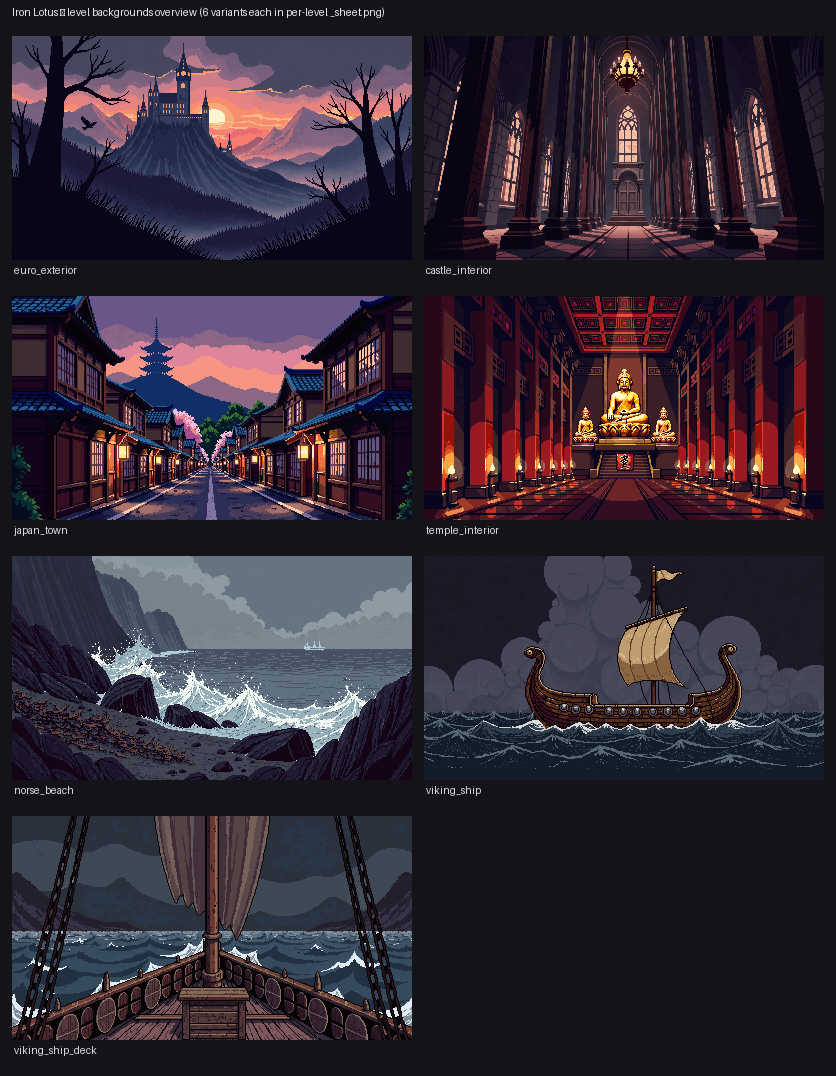
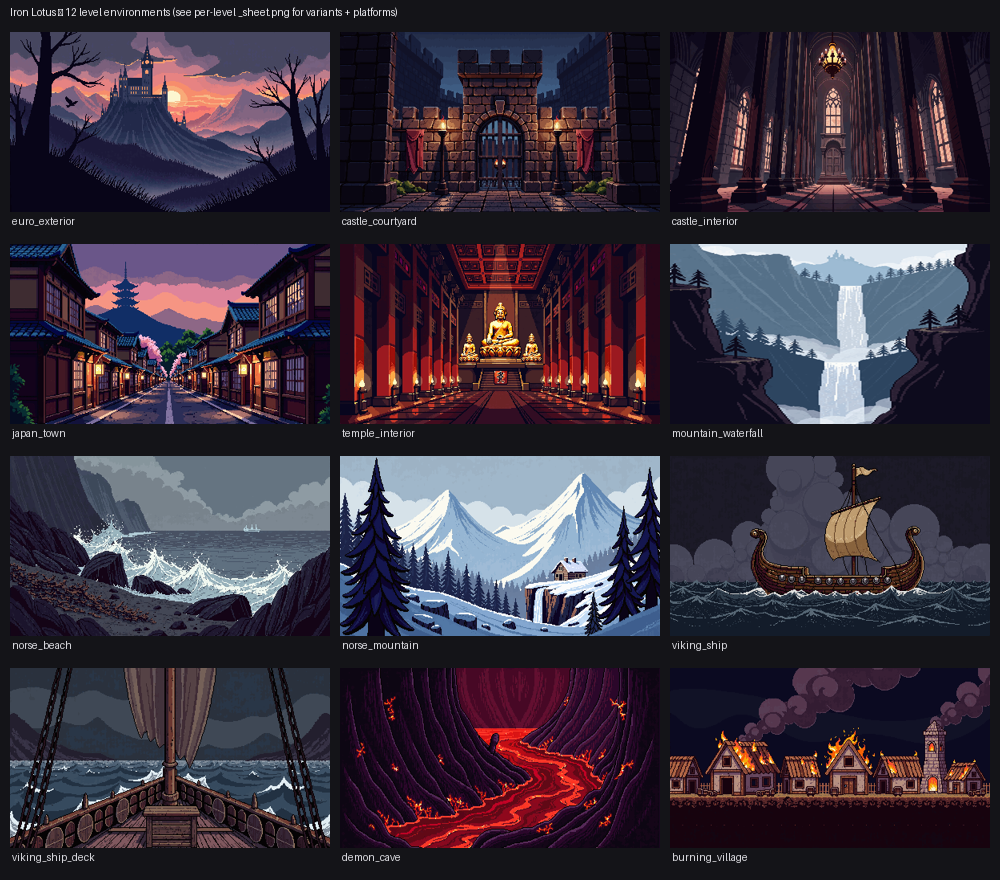
Add 4 bonus environments (demon cave, castle courtyard, norse mountain, burning village) + 12-level overview
Expands the level-art library to 12 environments; rebuilt master overview
grid and README index.

Claude-Session: https://claude.ai/code/session_013bTeX7PoGZPDou5K2jz6sG

diff --git a/assets/backgrounds/README.md b/assets/backgrounds/README.md
@@ -9,6 +9,7 @@ Open each level's **`_sheet.png`** — it shows the 3 background variants side b
 side plus the themed jump-platforms on a checker (transparent) background.
 
 ## Levels
+**The environments you asked for** (each 6 backdrop variants + platforms):
 | Folder | Environment |
 |---|---|
 | `euro_exterior`   | European approach — colossal gothic castle looming in the distance |
@@ -18,6 +19,18 @@ side plus the themed jump-platforms on a checker (transparent) background.
 | `norse_beach`     | Scandinavian storm-battered rocky shore |
 | `viking_ship`     | The longship seen from the side (establishing / parallax) |
 | `viking_ship_deck`| ON the ship's deck, looking down toward the dragon prow (playable POV) |
+
+**Bonus environments** (from the design doc + fitting the demon-war arcs; 4 variants each):
+| Folder | Environment |
+|---|---|
+| `mountain_waterfall` | Feudal-East climb — tall vertical gorge + waterfall, distant castle |
+| `castle_courtyard`   | Ruined courtyard / portcullis gate (bridges exterior→interior) |
+| `norse_mountain`     | Snowbound Scandinavian pass, longhouse, frozen falls |
+| `demon_cave`         | Hellish lava-rift cavern (the Demonic Scourge) |
+| `burning_village`    | War-torn village ablaze at night |
+
+**Mood variants:** each of the 7 core landscape levels also has `corrupt_1/2.png`
+— a blood-sky / fire / smoke "demonic corruption" version (see `_overview_corrupted.png`).
 
 ## Files per level
 - `backgrounds/<level>/bg_1.png … bg_6.png` — 400×224 parallax backdrops (6 seed variants).
